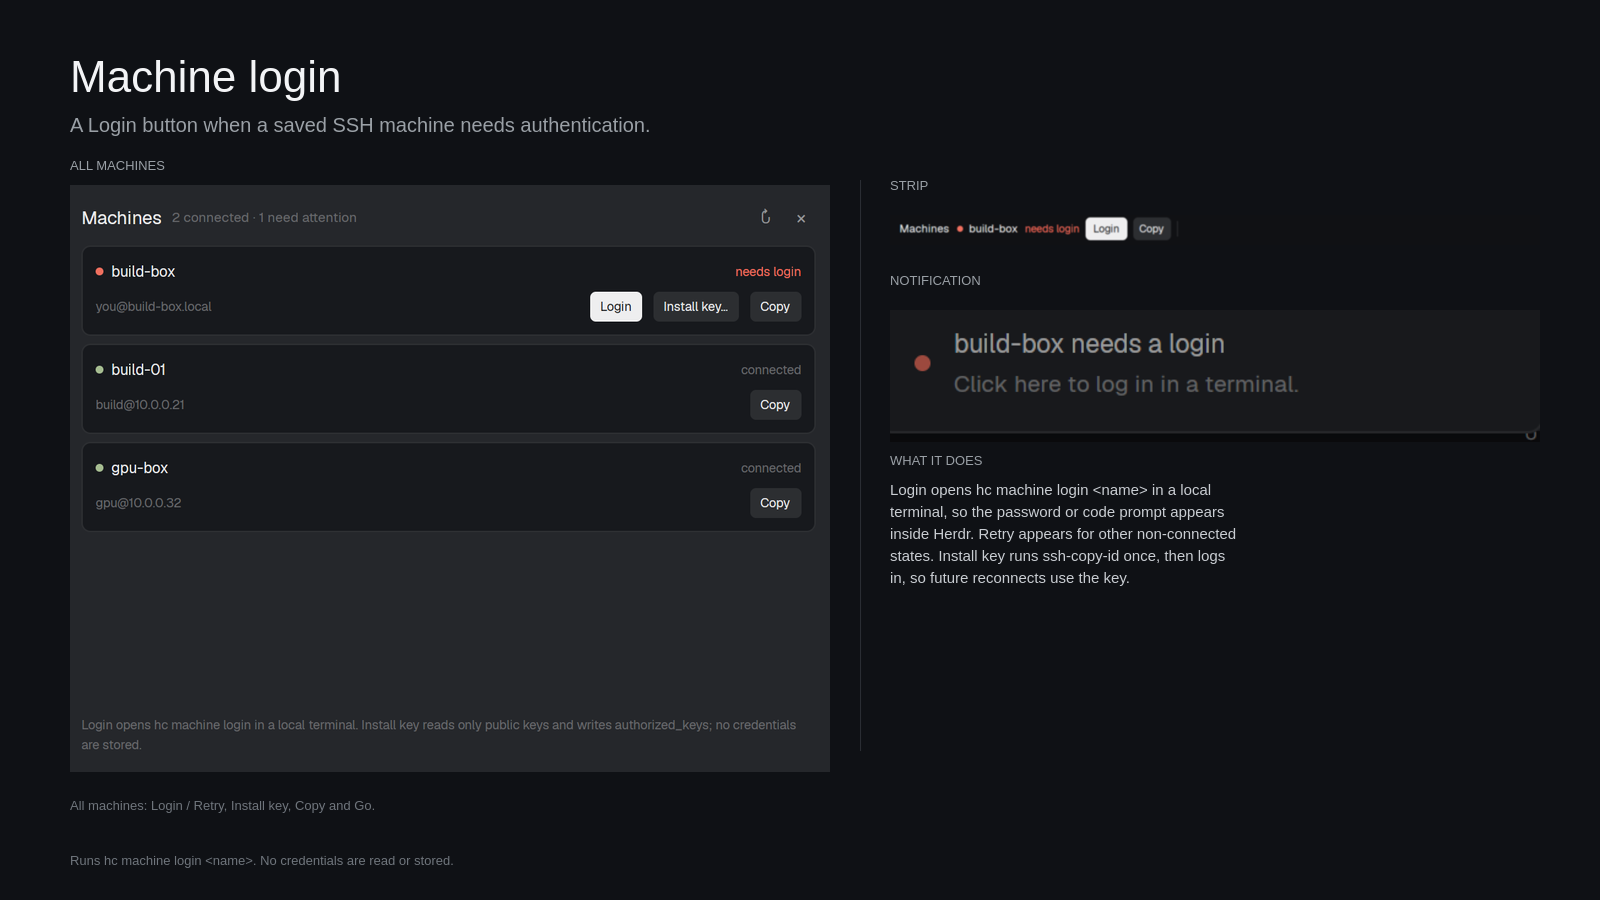
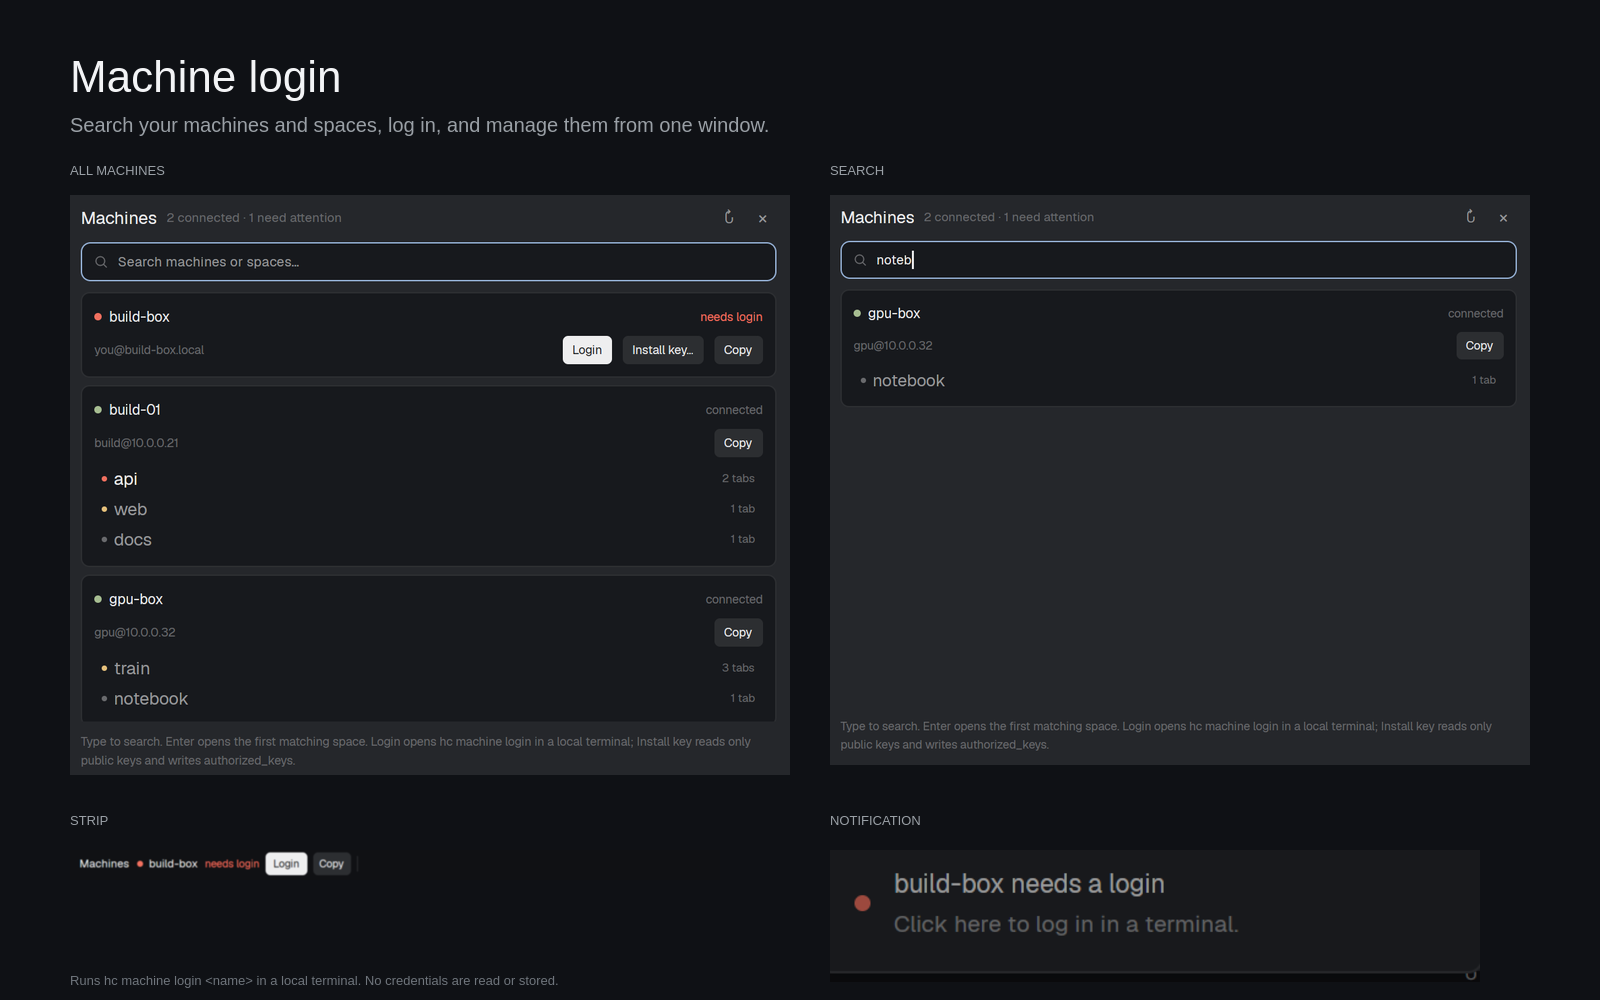
Add searchable machine and space list

diff --git a/mods/machine-login/main.js b/mods/machine-login/main.js
@@ -4,8 +4,8 @@
 // normal local terminal, because SSH must be able to ask for a password or a
 // code. No credentials are read or stored here.
 
-import { View, div } from "gpui-kit";
-import { v_flex, h_flex } from "gpui-base";
+import { View, div, svg } from "gpui-kit";
+import { v_flex, h_flex, InputState, Input } from "gpui-base";
 import { hc, notify, run, theme, props, openOverlay, closeOverlay, spaces } from "herdr";
 
 const shellArg = (value) => /^[a-z0-9_@%+=:,./-]+$/i.test(value) ? value : "'" + value.replace(/'/g, "'\\''") + "'";
@@ -62,6 +62,14 @@ export default class MachineLogin extends View {
     this.loading = true;
     this.copied = null;
     this.notified = {}; // machine -> when its login notice was last posted
+    this.filter = "";
+    if (this.overlay) {
+      this.input = InputState.new({ placeholder: "Search machines or spaces…" });
+      this.input.on("change", (_e, cx) => { this.filter = this.input.value(); cx.notify(); });
+      this.input.on("submit", (_e, cx) => this.openFirst(cx));
+      this.input.focus();
+      cx.timer.after(600, () => this.input.focus());
+    }
     cx.timer.every(5000, (cx) => this.refresh(cx));
     this.refresh(cx);
   }
@@ -105,7 +113,40 @@ export default class MachineLogin extends View {
   }
 
   openList() {
-    openOverlay({ mod: "machine-login", kind: "dialog", width: 680, height: 520 });
+    openOverlay({ mod: "machine-login", kind: "dialog", width: 680, height: 560 });
+  }
+
+  spacesFor(machine) {
+    return spaces().filter((s) => (s.machine ?? null) === (machine ?? null));
+  }
+
+  matches(m, q) {
+    if (!q) return true;
+    const hay = `${m.name} ${m.target ?? ""} ${m.state ?? ""}`.toLowerCase();
+    if (hay.includes(q)) return true;
+    return this.spacesFor(m.name).some((s) => s.name.toLowerCase().includes(q));
+  }
+
+  rows() {
+    const q = this.filter.trim().toLowerCase();
+    const attention = this.machines.filter((m) => m.state !== "connected" && this.matches(m, q));
+    const connected = this.machines.filter((m) => m.state === "connected" && this.matches(m, q));
+    return [...attention, ...connected];
+  }
+
+  closeAndSelect(id) {
+    closeOverlay(this.overlay);
+    run("space.select", { id });
+  }
+
+  openFirst(_cx) {
+    const q = this.filter.trim().toLowerCase();
+    if (!q) return;
+    for (const m of this.rows()) {
+      const list = this.spacesFor(m.name);
+      const hit = list.find((s) => s.name.toLowerCase().includes(q)) ?? list[0];
+      if (hit) { this.closeAndSelect(hit.id); return; }
+    }
   }
 
   button(id, label, primary, tooltip, onClick) {
@@ -161,6 +202,21 @@ export default class MachineLogin extends View {
           .child("↻")));
   }
 
+  spaceRows(m, t) {
+    const q = this.filter.trim().toLowerCase();
+    const machineHit = `${m.name} ${m.target ?? ""} ${m.state ?? ""}`.toLowerCase().includes(q);
+    const list = this.spacesFor(m.name).filter((s) => !q || machineHit || s.name.toLowerCase().includes(q));
+    if (!list.length) return div().px(7).text_size(11).text_color(t.dim).child(q ? "No spaces match." : "No spaces on this screen.");
+    return v_flex().gap(2).children(list.map((s) => h_flex()
+      .id(`machine-space-${s.id}`).h(26).px(7).rounded(5).gap(6).items_center().cursor_pointer()
+      .hover((el) => el.bg(t.hover))
+      .on_click((e, cx) => { e.stop_propagation(); this.closeAndSelect(s.id); })
+      .child(div().size(5).rounded(3).flex_none().bg(s.status ? (t[s.status] ?? t.dim) : t.dim))
+      .child(div().truncate().text_color(s.active ? t.foreground : t.muted).child(s.name))
+      .child(div().flex_1())
+      .child(div().text_size(10.5).text_color(t.dim).child(`${s.tabs?.length ?? 0} tab${(s.tabs?.length ?? 0) === 1 ? "" : "s"}`))));
+  }
+
   card(m, t, cx) {
     const state = String(m.state ?? "unknown").replace(/_/g, " ");
     const login = m.state === "needs_login";
@@ -187,14 +243,15 @@ export default class MachineLogin extends View {
           () => { closeOverlay(this.overlay); run("space.new", keyArgs(m.name, m.target)); })))
         .child(this.button(`machine-login-copy-${m.name}`, this.copied === m.name ? "Copied" : "Copy", false,
           command,
-          (_e, cx) => { cx.write_to_clipboard(command); this.copied = m.name; cx.notify(); })));
+          (_e, cx) => { cx.write_to_clipboard(command); this.copied = m.name; cx.notify(); })))
+      .when(m.state === "connected", (el) => el.child(this.spaceRows(m, t)));
   }
 
   renderList(t, cx) {
     const attention = this.machines.filter((m) => m.state !== "connected");
     const connected = this.machines.filter((m) => m.state === "connected");
-    const ordered = [...attention, ...connected];
-    return v_flex().size_full().p(16).gap(12).bg(t.popover).text_color(t.muted)
+    const shown = this.rows();
+    return v_flex().size_full().p(16).gap(10).bg(t.popover).text_color(t.muted)
       .child(h_flex().gap(8).items_center()
         .child(div().text_size(16).font_semibold().text_color(t.foreground).child("Machines"))
         .child(div().text_size(12).text_color(t.dim).child(`${connected.length} connected${attention.length ? ` · ${attention.length} need attention` : ""}`))
@@ -209,12 +266,16 @@ export default class MachineLogin extends View {
           .tooltip("Close")
           .on_click((_e, cx) => { cx.stop_propagation(); closeOverlay(this.overlay); })
           .child("×")))
+      .child(h_flex().h(36).flex_none().px(10).gap(8).items_center().rounded(9).border_1().border_color(t.accent).bg(t.background)
+        .child(svg("mods/workspace-chrome/search.svg").size(15).text_color(t.dim))
+        .child(Input.new(this.input).flex_1().h_full().text_size(12.8).text_color(t.foreground)))
       .when(this.loading, (el) => el.child(div().text_size(12).text_color(t.dim).child("checking…")))
       .when(!this.loading && this.error, (el) => el.child(div().text_size(12).text_color(t.blocked).child(`Couldn't check machines: ${this.error}`)))
       .child(v_flex().flex_1().min_h(0).gap(7).overflow_y_scrollbar()
-        .when(!this.loading && !this.error && ordered.length === 0, (el) => el.child(div().py(8).text_size(12).text_color(t.dim).child("No saved machines yet.")))
-        .children(ordered.map((m) => this.card(m, t, cx))))
-      .child(div().text_size(11).text_color(t.dim).child("Login opens hc machine login in a local terminal. Install key reads only public keys and writes authorized_keys; no credentials are stored."));
+        .when(!this.loading && !this.error && shown.length === 0, (el) => el.child(div().py(8).text_size(12).text_color(t.dim)
+          .child(this.filter.trim() ? "No machine or space matches." : "No saved machines yet.")))
+        .children(shown.map((m) => this.card(m, t, cx))))
+      .child(div().text_size(11).text_color(t.dim).child("Type to search. Enter opens the first matching space. Login opens hc machine login in a local terminal; Install key reads only public keys and writes authorized_keys."));
   }
 
   render(cx) {

diff --git a/RECIPE.md b/RECIPE.md
@@ -37,12 +37,15 @@ From left to right:
 - If the check fails, the middle is one truncated line in `blocked`:
   `Couldn't check machines: <error>`; its tooltip has the full error.
 
-Clicking **Machines** (or pressing `Ctrl+Alt+M`) opens a 680×520 dialog on
+Clicking **Machines** (or pressing `Ctrl+Alt+M`) opens a 680×560 dialog on
 `popover`:
 
 - Header: **Machines** 16px semibold in `foreground`; `${connected} connected`
   and `${attention} need attention` in 12px `dim` when there is attention;
   a 24×24px refresh `↻`; a 24×24px `×` that closes the dialog.
+- A 36px search field under the header: `accent` border, radius 9,
+  `background` fill, a 15px `workspace-chrome/search.svg` in `dim`, and an
+  auto-focused `Input` with placeholder `Search machines or spaces…`.
 - A scrollable column of machine cards, attention first and connected after.
   Each card is an 11px-padded `surface` rounded 8 with a `border`, and:
   - a 7px state dot (`blocked` for `needs_login`, `ansi2` for connected,
@@ -54,6 +57,11 @@ Clicking **Machines** (or pressing `Ctrl+Alt+M`) opens a 680×520 dialog on
     screen), **Login** for `needs_login` / **Retry** otherwise (not shown for
     connected), **Install key…** (only `needs_login`, a target, and
     `via: false`), and **Copy**.
+  - a list of the machine's spaces under the actions when it is connected:
+    26px rows, a 5px status dot (`blocked`, `working`, `done`, `idle`, or
+    `dim`), the space name in `muted` (`foreground` when active), and
+    `${tabs} tab(s)` in 10.5px `dim`. Clicking a row closes the dialog and
+    selects that space. With no spaces: `No spaces on this screen.`
   - Buttons are 26px high, radius 5. Primary is `solid`/`solid_foreground`,
     secondary `raised`/`foreground`; hover dims primary or uses `hover`.
 - Footer, 11px `dim`: `Login opens hc machine login in a local terminal.
@@ -70,13 +78,22 @@ running mod reads the real `hc machine ls`.
   an open dialog copy each poll; the dialog copy does not post notifications.
 - Temporary machines (`temporary: true`) are left out.
 - **Machines** in the strip opens the dialog with `openOverlay({ mod:
-  "machine-login", kind: "dialog", width: 680, height: 520 })`. The mod's
+  "machine-login", kind: "dialog", width: 680, height: 560 })`. The mod's
   `keys.json` binds `ctrl-alt-m` to `mod.open:machine-login`, so the same dialog
-  opens from a key. `mod.json` carries the same 680×520 dialog as its default
+  opens from a key. `mod.json` carries the same 680×560 dialog as its default
   overlay.
-- In the dialog, **Go** finds the first space whose `machine` matches the
-  saved machine (`spaces()`), closes the dialog and calls `space.select`. It is
-  hidden when that machine has no space on this screen.
+- The search field is a `gpui-base` `InputState` with `on("change")` and
+  `on("submit")`. `filter` is lowercased; `matches(m, q)` accepts a machine
+  whose name, target or state contains `q`, or whose spaces include one whose
+  name contains `q`. `rows()` filters attention first, then connected.
+  **Enter** calls `openFirst`: for the first matching machine it takes the
+  first space whose name contains `q`, else that machine's first space, closes
+  the dialog and calls `space.select`. Typing with no matching space leaves the
+  dialog open.
+- A machine card lists its spaces only when it is connected, via `spaceRows`.
+  Each space row closes the dialog and calls `space.select` with that space id.
+  **Go** is the same action with the machine's first space; it is hidden when
+  that machine has no space on this screen.
 - **Install key…** is the permanent fix. It opens a local space named
   `<machine> key` with a `key` tab and this shell, then closes the dialog:
 
@@ -137,35 +154,45 @@ running mod reads the real `hc machine ls`.
 
 - One mod, `mods/machine-login/`:
   - `mod.json`: `{ "place": "bottom", "size": 34, "title": "Machine login",
-    "version": "0.2.0", "overlay": { "kind": "dialog", "width": 680,
-    "height": 520 } }`. The first time Herdr sees the folder it docks the strip
+    "version": "0.3.0", "overlay": { "kind": "dialog", "width": 680,
+    "height": 560 } }`. The first time Herdr sees the folder it docks the strip
     into the shown layout; the overlay is what `mod.open` uses for the list.
   - `keys.json`: `{ "global": { "ctrl-alt-m": "mod.open:machine-login" } }`.
-  - `main.js`: imports `View`, `div` from `gpui-kit`, `v_flex`, `h_flex` from
-    `gpui-base`, and `hc`, `notify`, `run`, `theme`, `props`, `openOverlay`,
-    `closeOverlay`, `spaces` from `herdr`.
+  - `main.js`: imports `View`, `div`, `svg` from `gpui-kit`, `v_flex`,
+    `h_flex`, `InputState`, `Input` from `gpui-base`, and `hc`, `notify`,
+    `run`, `theme`, `props`, `openOverlay`, `closeOverlay`, `spaces` from
+    `herdr`.
     - `shellArg(value)` leaves plain machine names alone and single-quotes
       anything else, escaping embedded single quotes.
     - `commandFor(machine)` returns `hc machine login <quoted>`.
     - `loginArgs(machine)` returns the `space.new` arguments above.
     - `keyArgs(machine, target)` builds the optional `ssh-copy-id` shell above.
     - `init` sets `this.overlay = props()?.overlay`, empty/loading state, a
-      5-second `cx.timer.every`, and starts the first read.
+      5-second `cx.timer.every`, and starts the first read. On the overlay copy
+      it also creates the search `InputState`, wires `change`/`submit`, focuses
+      it, and focuses it again after 600ms.
     - `refresh` uses `cx.spawn(async (cx) => ...)`, checks `r.code`, parses
       `r.stdout` as JSON, filters temporary machines, calls `notifyLogins` only
       when this is not the overlay copy, and sets `loading`/`error` before
       `cx.notify()`.
     - `notifyLogins` keeps `this.notified` as a per-machine timestamp and posts
       at most one notice per 10 minutes for a machine in `needs_login`.
-    - `openList` calls `openOverlay` with the same 680×520 dialog.
+    - `openList` calls `openOverlay` with the same 680×560 dialog.
+    - `spacesFor(machine)` filters `spaces()` by `machine`; `matches(m, q)`
+      matches machine name/target/state or a space name; `rows()` returns the
+      filtered attention-first machines.
+    - `closeAndSelect(id)` closes the overlay and calls `space.select`;
+      `openFirst` implements Enter.
     - `button(id, label, primary, tooltip, onClick)` is the shared 26px action
       button; it stops propagation so a click does not also close/select.
     - `row` draws the strip's dot, name, state, Login/Retry, Copy and divider.
     - `renderStrip` chooses checking / error / all-connected / attention, makes
       **Machines** open the list, and always draws the refresh button.
+    - `spaceRows(m, t)` draws the connected machine's space rows.
     - `card(m, t, cx)` draws one dialog card: state dot, name, state, target,
-      Go, Login/Retry, Install key… and Copy.
-    - `renderList` draws the dialog header, the scrollable cards and the footer.
+      Go, Login/Retry, Install key…, Copy, and the spaces.
+    - `renderList` draws the dialog header, the search field, the scrollable
+      cards and the footer.
     - `render(cx)` returns `renderList` when `this.overlay` is set, otherwise
       `renderStrip`.
 - No images, fonts, SVGs or other assets. No network requests.
@@ -240,12 +267,16 @@ running mod reads the real `hc machine ls`.
   "you@build-box.local", via: false }` shows `Machines ● build-box needs login`
   with **Login** and **Copy**, and posts one notification whose click would run
   the same login.
-- Clicking **Machines** (or pressing `Ctrl+Alt+M`) opens the 680×520 dialog.
+- Clicking **Machines** (or pressing `Ctrl+Alt+M`) opens the 680×560 dialog.
   Attention is first; the needs-login card shows **Login**, **Install key…** and
-  **Copy**. Connected cards show **Copy** and **Go** only when they have a
-  space; no **Retry** on connected cards.
-- Clicking **Go** on a connected machine selects its first space and closes the
-  dialog.
+  **Copy**. Connected cards show **Copy**, **Go** when they have a space, and
+  their space rows; no **Retry** on connected cards.
+- Typing a space name (for example `slack`) filters to the machines holding a
+  matching space and leaves that space visible. **Enter** closes the dialog and
+  selects the first matching space. With no match the list says
+  `No machine or space matches.`
+- Clicking a space row selects that space and closes the dialog. Clicking
+  **Go** selects the machine's first space.
 - Clicking **Login** creates a local space named `build-box login` with a
   `login` tab, and the terminal shows the `(user@host) Password:` prompt (or the
   real SSH error). Closing the space leaves the saved machine untouched.

diff --git a/README.md b/README.md
@@ -27,8 +27,9 @@ that can ask.
   **Copy** buttons. A machine that is merely unreachable or asleep gets
   **Retry** instead. Several machines scroll horizontally.
 - Click **Machines** (or press `Ctrl+Alt+M`) to open the full machine list: every
-  saved machine, its target, state, and **Login / Retry**, **Install key…**,
-  **Copy** and **Go** actions. Attention comes first.
+  saved machine, its target, state, **Login / Retry**, **Install key…**,
+  **Copy**, **Go**, and the machine's spaces. Attention comes first. Search
+  filters machines and spaces; **Enter** opens the first matching space.
 - **Install key…** is the permanent fix: it runs `ssh-copy-id` for your first
   `~/.ssh/id_ed25519.pub` or `~/.ssh/id_rsa.pub`, then logs in once. Future
   reconnects use the key and no longer prompt.
@@ -118,7 +119,9 @@ button is not useful there.
   For a custom port, a Host alias that `ssh-copy-id` cannot parse, or a
   different key, run `ssh-copy-id` once in your own terminal.
 - The dialog's **Go** button selects the first space on that machine. It is
-  hidden if that machine has no space on the current screen.
+  hidden if that machine has no space on the current screen. Its **spaces** rows
+  do the same for one space; the search field matches machine names, targets,
+  states and space names.
 - The mod quotes machine names for the `sh -c` wrapper; names from `hc` are
   already constrained, but the quoting keeps a renamed machine safe.
 - `Ctrl+Alt+M` is the default list shortcut. Change or remove it in
